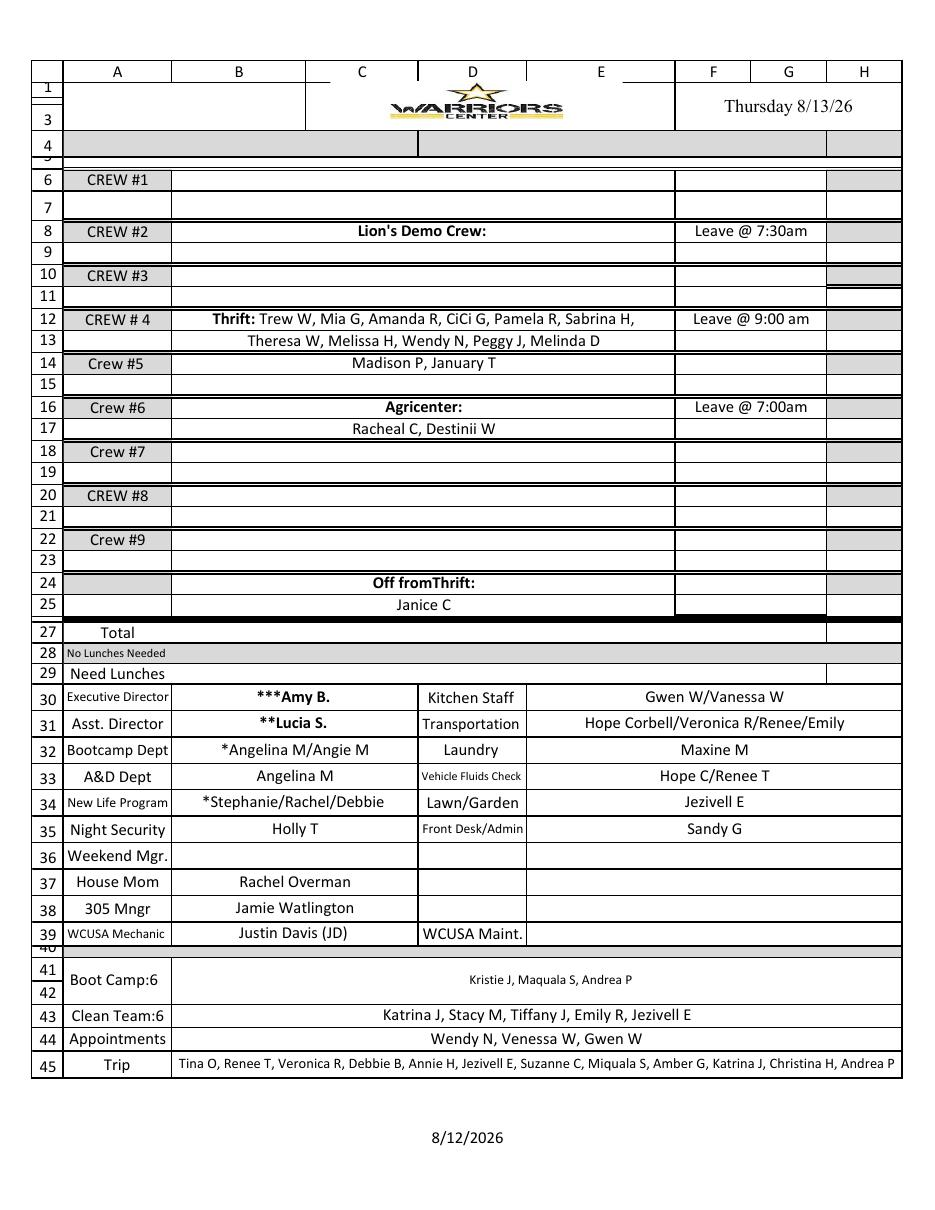
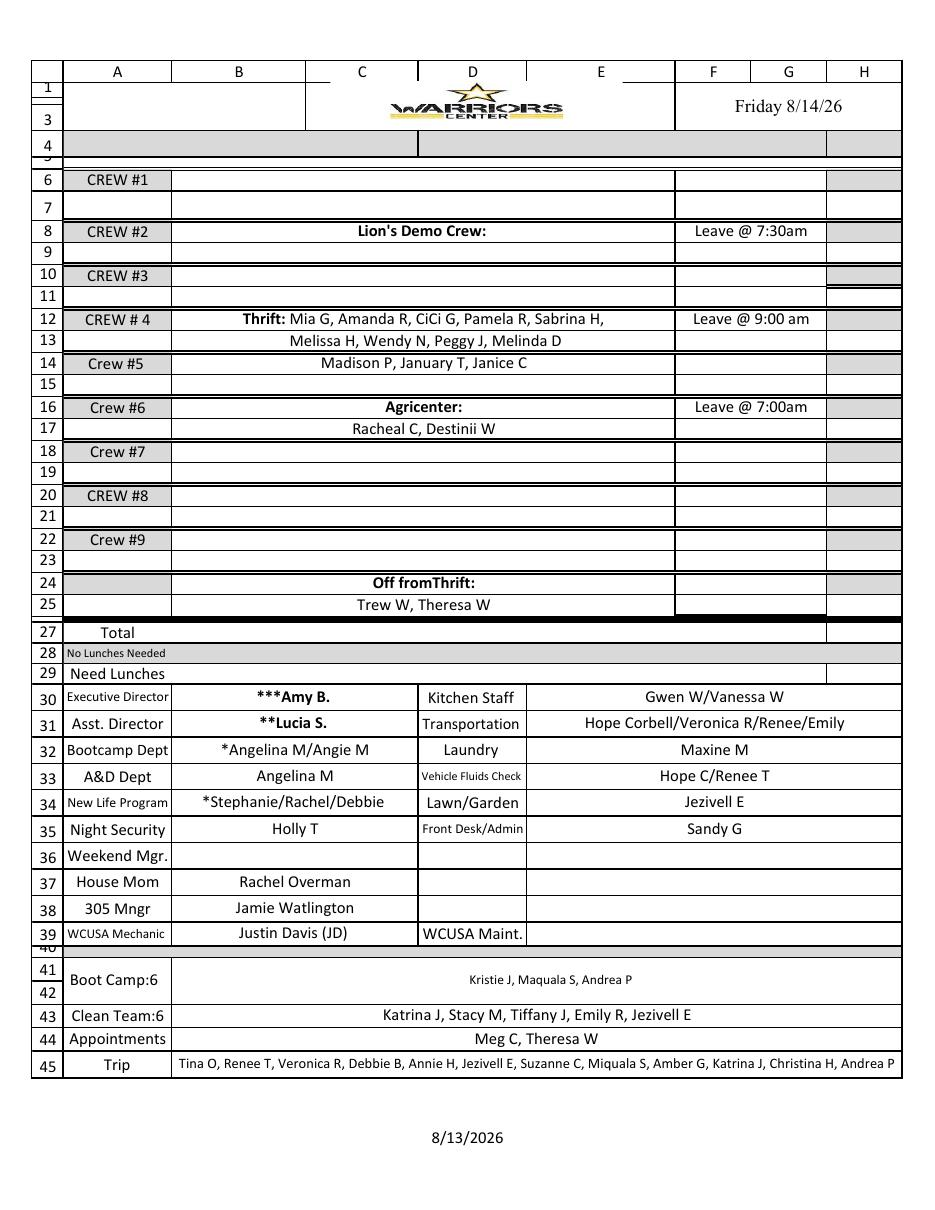
Add files via upload

diff --git a/bedcensus.html b/bedcensus.html
@@ -50,19 +50,19 @@
 <a class="back-link" href="index.html">&larr; Back to Dashboard</a>
 <h1>Warriors Center &mdash; Bed Census, All Centers</h1>
 <div class="sub">Room-by-room census as of the most recent fetch for each center.</div>
-<div class="generated">Page generated August 13, 2026</div>
+<div class="generated">Page generated August 14, 2026</div>
 <div class="nav"><a href="#Memphis">Memphis</a><a href="#Bolivar">Bolivar</a><a href="#OliveBranch">Olive Branch</a><a href="#Hardeman">Hardeman</a><a href="#NewAlbany">New Albany</a></div>
 
 <div class="center-section" id="Memphis">
   <div class="center-header">
     <h2>Memphis</h2>
-    <div class="center-meta">Week of 08/10/26 &middot; 92 people listed</div>
+    <div class="center-meta">Week of 08/10/26 &middot; 91 people listed</div>
   </div>
   <div class="card-wrap">
     <table>
       <thead><tr><th>Room</th><th>Bed</th><th>Name</th><th>Rank</th><th>Sp. Lvl</th></tr></thead>
       <tbody>
-        <tr><td>1</td><td>NA</td><td>Bryant Cummings</td><td>Executive Staff</td><td>NA</td></tr><tr><td>2</td><td>1</td><td>Jonathan Hankins</td><td>Recruit</td><td>L-0</td></tr><tr><td>2</td><td>2</td><td>Alejandro Jimenez</td><td>E-8</td><td>L-3</td></tr><tr><td>2</td><td>3</td><td>Lee Pulliam</td><td>E-8</td><td>L-3</td></tr><tr><td>3</td><td>1</td><td>Benjamin Coffman</td><td>E-1</td><td>L-0</td></tr><tr><td>3</td><td>2</td><td>Michael Westman</td><td>E-6</td><td>L-2</td></tr><tr><td>3</td><td>3</td><td>Thomas Kolwyck</td><td>E-6</td><td>L-2</td></tr><tr><td>4</td><td>1</td><td>Boris Fitzgerald</td><td>Help Staff</td><td>NA</td></tr><tr><td>4</td><td>2</td><td>Michael Healey</td><td>Help Staff</td><td>NA</td></tr><tr><td>4</td><td>3</td><td>James Forrest</td><td>Graduate</td><td>NA</td></tr><tr><td>5</td><td>1</td><td>John Horton</td><td>E-5</td><td>L-1</td></tr><tr><td>5</td><td>2</td><td>Tim Sepper</td><td>E-9</td><td>L-3</td></tr><tr><td>5</td><td>3</td><td>Joseph Nagi</td><td>Help Staff</td><td>NA</td></tr><tr><td>6</td><td>1</td><td>Jimmy Blakely</td><td>Help Staff</td><td>NA</td></tr><tr><td>9</td><td>1</td><td>Robert Fargason</td><td>Graduate</td><td>NA</td></tr><tr><td>9</td><td>2</td><td>Jason Doss</td><td>E-8</td><td>L-3</td></tr><tr><td>9</td><td>3</td><td>Benjamin Chavez</td><td>E-6</td><td>L-2</td></tr><tr><td>10</td><td>1</td><td>Henry Nixon</td><td>E-5</td><td>L-1</td></tr><tr><td>10</td><td>2</td><td>Edward Bosi</td><td>E-7</td><td>L-2</td></tr><tr><td>10</td><td>3</td><td>Terry Dotson</td><td>E-7</td><td>L-2</td></tr><tr><td>11</td><td>1</td><td>Edrick Wedlow</td><td>E-6</td><td>L-2</td></tr><tr><td>11</td><td>2</td><td>Lloyd Hamm</td><td>E-4</td><td>L-1</td></tr><tr><td>11</td><td>3</td><td>Ashton Jones</td><td>E-6</td><td>L-2</td></tr><tr><td>13</td><td>1</td><td>Zachary Austin</td><td>Bootcamp</td><td>L-0</td></tr><tr><td>13</td><td>2</td><td>Wesley Guess</td><td>Bootcamp</td><td>L-0</td></tr><tr><td>13</td><td>3</td><td>Frank Watson</td><td>Bootcamp</td><td>L-0</td></tr><tr><td>13</td><td>4</td><td>Darrell Falconer</td><td>Bootcamp</td><td>L-0</td></tr><tr><td>13</td><td>5</td><td>Cody Mclure</td><td>Bootcamp</td><td>L-0</td></tr><tr class="open-row"><td>13</td><td>6</td><td>Open</td><td>Open</td><td>Open</td></tr><tr class="open-row"><td>13</td><td>Cot1</td><td>Open</td><td>Open</td><td>Open</td></tr><tr class="open-row"><td>13</td><td>Cot2</td><td>Open</td><td>Open</td><td>Open</td></tr><tr class="open-row"><td>13</td><td>Cot3</td><td>Open</td><td>Open</td><td>Open</td></tr><tr><td>14</td><td>1</td><td>Kerry Brown</td><td>Bootcamp</td><td>L-0</td></tr><tr><td>14</td><td>2</td><td>Jamie Murray</td><td>Recharge</td><td>NA</td></tr><tr><td>14</td><td>3</td><td>Kelvin Seymour</td><td>Bootcamp</td><td>L-0</td></tr><tr><td>14</td><td>4</td><td>Ben Boyd</td><td>Bootcamp</td><td>L-0</td></tr><tr><td>15</td><td>1</td><td>Quincey Jones</td><td>Recruit</td><td>L-0</td></tr><tr><td>15</td><td>2</td><td>Michael Smith</td><td>Bootcamp</td><td>L-0</td></tr><tr><td>15</td><td>3</td><td>Chris Jones</td><td>E-1</td><td>L-0</td></tr><tr><td>15</td><td>4</td><td>Christopher Worsham</td><td>E-2</td><td>L-0</td></tr><tr><td>16</td><td>1</td><td>Johnny Bennett</td><td>Bootcamp</td><td>L-0</td></tr><tr><td>16</td><td>2</td><td>Tyson Darby</td><td>Recruit</td><td>L-0</td></tr><tr><td>16</td><td>3</td><td>Miguel Campos</td><td>Recruit</td><td>L-0</td></tr><tr><td>16</td><td>4</td><td>Hal Munson</td><td>Recharge</td><td>NA</td></tr><tr><td>17</td><td>1</td><td>Trae Morrow</td><td>E-3</td><td>L-1</td></tr><tr><td>17</td><td>2</td><td>Bradford Allen</td><td>E-7</td><td>L-2</td></tr><tr><td>17</td><td>3</td><td>Derron Pegues</td><td>E-2</td><td>L-0</td></tr><tr><td>17</td><td>4</td><td>William Brown</td><td>Recruit</td><td>L-0</td></tr><tr><td>18</td><td>1</td><td>Michael Chandler</td><td>Bootcamp</td><td>L-0</td></tr><tr><td>18</td><td>2</td><td>Tempton Land</td><td>Recruit</td><td>L-0</td></tr><tr><td>18</td><td>3</td><td>DeMarco Boyd</td><td>E-1</td><td>L-0</td></tr><tr><td>18</td><td>4</td><td>Chris Woods</td><td>E-1</td><td>L-0</td></tr><tr><td>19</td><td>1</td><td>Derrick Mason</td><td>Bootcamp</td><td>L-0</td></tr><tr><td>19</td><td>2</td><td>Rodney Horst</td><td>E-5</td><td>L-1</td></tr><tr><td>19</td><td>3</td><td>Michael Wells</td><td>E-3</td><td>L-1</td></tr><tr><td>19</td><td>4</td><td>Shelton Sanders</td><td>E-4</td><td>L-1</td></tr><tr><td>20</td><td>1</td><td>Andy Woods</td><td>Recruit</td><td>L-0</td></tr><tr><td>20</td><td>2</td><td>Patrick Maxie</td><td>Recruit</td><td>L-0</td></tr><tr><td>20</td><td>3</td><td>Johnathan Nobles</td><td>E-2</td><td>L-0</td></tr><tr><td>20</td><td>4</td><td>Cornelius Triplett</td><td>E-1</td><td>L-0</td></tr><tr><td>21</td><td>1</td><td>Michael Lyons</td><td>Bootcamp</td><td>L-0</td></tr><tr><td>21</td><td>2</td><td>Kenneth Foreman</td><td>E-9</td><td>L-3</td></tr><tr><td>21</td><td>3</td><td>Jason Hutto</td><td>Bootcamp</td><td>L-0</td></tr><tr><td>21</td><td>4</td><td>Melvin McKinnie</td><td>Graduate</td><td>NA</td></tr><tr><td>22</td><td>1</td><td>Edward Green</td><td>Bootcamp</td><td>L-0</td></tr><tr><td>22</td><td>2</td><td>Dedrick Woodard</td><td>E-2</td><td>L-0</td></tr><tr><td>22</td><td>3</td><td>Mark Carr</td><td>E-2</td><td>L-0</td></tr><tr><td>22</td><td>4</td><td>Arthur Spears</td><td>E-3</td><td>L-1</td></tr><tr><td>23</td><td>1</td><td>Matthew Stewart</td><td>Recharge</td><td>NA</td></tr><tr><td>23</td><td>2</td><td>Cliff Jowers</td><td>Recharge</td><td>NA</td></tr><tr><td>23</td><td>3</td><td>Michael Marla</td><td>Bootcamp</td><td>L-0</td></tr><tr><td>23</td><td>4</td><td>Andrew Hence</td><td>Recruit</td><td>L-0</td></tr><tr><td>24</td><td>NA</td><td>Bootcamp Office</td><td>NA</td><td>NA</td></tr><tr><td>25</td><td>NA</td><td>Program Office</td><td>NA</td><td>NA</td></tr><tr><td>26</td><td>NA</td><td>Med Room</td><td>NA</td><td>NA</td></tr><tr><td>28</td><td>1</td><td>James Shelton</td><td>Graduate</td><td>NA</td></tr><tr><td>29</td><td>NA</td><td>A&amp;D Office</td><td>NA</td><td>NA</td></tr><tr><td>Grad1</td><td>1</td><td>Darrin Tolliver</td><td>Graduate</td><td>NA</td></tr><tr><td>Grad1</td><td>2</td><td>Robert Tolliver</td><td>Graduate</td><td>NA</td></tr><tr><td>Grad1</td><td>3</td><td>Billy Springs</td><td>Help Staff</td><td>NA</td></tr><tr><td>Grad1</td><td>4</td><td>Charles Whitaker</td><td>Help Staff</td><td>NA</td></tr><tr><td>Grad1</td><td>5</td><td>Robert Schibel</td><td>Graduate</td><td>NA</td></tr><tr><td>Grad1</td><td>6</td><td>Jeremy Myers</td><td>Graduate</td><td>NA</td></tr><tr><td>Grad1</td><td>7</td><td>Michael Taylor</td><td>Graduate</td><td>NA</td></tr><tr><td>Grad2</td><td>1</td><td>Exie Kelly</td><td>Executive Staff</td><td>NA</td></tr><tr><td>Grad2</td><td>2</td><td>Patrick Bowman</td><td>Help Staff</td><td>NA</td></tr><tr><td>Grad2</td><td>3</td><td>Frankie Dalriva</td><td>Graduate</td><td>NA</td></tr><tr><td>Grad2</td><td>4</td><td>Rodney Huffman</td><td>E-8</td><td>L-3</td></tr><tr><td>Grad2</td><td>5</td><td>Gregory Stiles</td><td>Graduate</td><td>NA</td></tr><tr><td>Grad2</td><td>6</td><td>Joseph Hugo</td><td>Help Staff</td><td>NA</td></tr><tr><td>Grad2</td><td>7</td><td>Emmanuel Lovett</td><td>Graduate</td><td>NA</td></tr><tr><td>Grad3</td><td>1</td><td>Fred Mindermann</td><td>Help Staff</td><td>NA</td></tr><tr><td>Grad3</td><td>2</td><td>James Sanders</td><td>Graduate</td><td>NA</td></tr><tr><td>Grad3</td><td>3</td><td>Donald Gonzalez</td><td>Graduate</td><td>NA</td></tr><tr><td>Grad3</td><td>4</td><td>Chris Purvis</td><td>Help Staff</td><td>NA</td></tr><tr><td>Grad3</td><td>5</td><td>Dwight Collins</td><td>Help Staff</td><td>NA</td></tr>
+        <tr><td>1</td><td>NA</td><td>Bryant Cummings</td><td>Executive Staff</td><td>NA</td></tr><tr><td>2</td><td>1</td><td>Jonathan Hankins</td><td>Recruit</td><td>L-0</td></tr><tr><td>2</td><td>2</td><td>Alejandro Jimenez</td><td>E-8</td><td>L-3</td></tr><tr><td>2</td><td>3</td><td>Lee Pulliam</td><td>E-8</td><td>L-3</td></tr><tr><td>3</td><td>1</td><td>Benjamin Coffman</td><td>E-1</td><td>L-0</td></tr><tr><td>3</td><td>2</td><td>Michael Westman</td><td>E-6</td><td>L-2</td></tr><tr><td>3</td><td>3</td><td>Thomas Kolwyck</td><td>E-6</td><td>L-2</td></tr><tr><td>4</td><td>1</td><td>Boris Fitzgerald</td><td>Help Staff</td><td>NA</td></tr><tr><td>4</td><td>2</td><td>Michael Healey</td><td>Help Staff</td><td>NA</td></tr><tr><td>4</td><td>3</td><td>James Forrest</td><td>Graduate</td><td>NA</td></tr><tr><td>5</td><td>1</td><td>John Horton</td><td>E-5</td><td>L-1</td></tr><tr><td>5</td><td>2</td><td>Tim Sepper</td><td>E-9</td><td>L-3</td></tr><tr><td>5</td><td>3</td><td>Joseph Nagi</td><td>Help Staff</td><td>NA</td></tr><tr><td>6</td><td>1</td><td>Jimmy Blakely</td><td>Help Staff</td><td>NA</td></tr><tr><td>9</td><td>1</td><td>Robert Fargason</td><td>Graduate</td><td>NA</td></tr><tr><td>9</td><td>2</td><td>Jason Doss</td><td>E-8</td><td>L-3</td></tr><tr><td>9</td><td>3</td><td>Benjamin Chavez</td><td>E-6</td><td>L-2</td></tr><tr><td>10</td><td>1</td><td>Henry Nixon</td><td>E-5</td><td>L-1</td></tr><tr><td>10</td><td>2</td><td>Edward Bosi</td><td>E-7</td><td>L-2</td></tr><tr><td>10</td><td>3</td><td>Terry Dotson</td><td>E-7</td><td>L-2</td></tr><tr><td>11</td><td>1</td><td>Edrick Wedlow</td><td>E-6</td><td>L-2</td></tr><tr><td>11</td><td>2</td><td>Lloyd Hamm</td><td>E-4</td><td>L-1</td></tr><tr><td>11</td><td>3</td><td>Ashton Jones</td><td>E-6</td><td>L-2</td></tr><tr><td>13</td><td>1</td><td>Zachary Austin</td><td>Bootcamp</td><td>L-0</td></tr><tr><td>13</td><td>2</td><td>Wesley Guess</td><td>Bootcamp</td><td>L-0</td></tr><tr><td>13</td><td>3</td><td>Frank Watson</td><td>Bootcamp</td><td>L-0</td></tr><tr><td>13</td><td>4</td><td>Darrell Falconer</td><td>Bootcamp</td><td>L-0</td></tr><tr><td>13</td><td>5</td><td>Cody Mclure</td><td>Bootcamp</td><td>L-0</td></tr><tr><td>13</td><td>6</td><td>David Webster</td><td>Bootcamp</td><td>L-0</td></tr><tr class="open-row"><td>13</td><td>Cot1</td><td>Open</td><td>Open</td><td>Open</td></tr><tr class="open-row"><td>13</td><td>Cot2</td><td>Open</td><td>Open</td><td>Open</td></tr><tr class="open-row"><td>13</td><td>Cot3</td><td>Open</td><td>Open</td><td>Open</td></tr><tr><td>14</td><td>1</td><td>Kerry Brown</td><td>Bootcamp</td><td>L-0</td></tr><tr><td>14</td><td>2</td><td>Jamie Murray</td><td>Recharge</td><td>NA</td></tr><tr><td>14</td><td>3</td><td>Kelvin Seymour</td><td>Bootcamp</td><td>L-0</td></tr><tr><td>14</td><td>4</td><td>Ben Boyd</td><td>Bootcamp</td><td>L-0</td></tr><tr><td>15</td><td>1</td><td>Quincey Jones</td><td>Recruit</td><td>L-0</td></tr><tr><td>15</td><td>2</td><td>Michael Smith</td><td>Bootcamp</td><td>L-0</td></tr><tr><td>15</td><td>3</td><td>Chris Jones</td><td>E-1</td><td>L-0</td></tr><tr><td>15</td><td>4</td><td>Christopher Worsham</td><td>E-2</td><td>L-0</td></tr><tr class="open-row"><td>16</td><td>1</td><td>Open</td><td>Open</td><td>Open</td></tr><tr><td>16</td><td>2</td><td>Tyson Darby</td><td>Recruit</td><td>L-0</td></tr><tr><td>16</td><td>3</td><td>Miguel Campos</td><td>Recruit</td><td>L-0</td></tr><tr><td>16</td><td>4</td><td>Hal Munson</td><td>Recharge</td><td>NA</td></tr><tr><td>17</td><td>1</td><td>Trae Morrow</td><td>E-3</td><td>L-1</td></tr><tr><td>17</td><td>2</td><td>Bradford Allen</td><td>E-7</td><td>L-2</td></tr><tr><td>17</td><td>3</td><td>Derron Pegues</td><td>E-2</td><td>L-0</td></tr><tr><td>17</td><td>4</td><td>William Brown</td><td>Recruit</td><td>L-0</td></tr><tr><td>18</td><td>1</td><td>Michael Chandler</td><td>Bootcamp</td><td>L-0</td></tr><tr><td>18</td><td>2</td><td>Tempton Land</td><td>Recruit</td><td>L-0</td></tr><tr><td>18</td><td>3</td><td>DeMarco Boyd</td><td>E-1</td><td>L-0</td></tr><tr><td>18</td><td>4</td><td>Chris Woods</td><td>E-1</td><td>L-0</td></tr><tr><td>19</td><td>1</td><td>Derrick Mason</td><td>Bootcamp</td><td>L-0</td></tr><tr><td>19</td><td>2</td><td>Rodney Horst</td><td>E-5</td><td>L-1</td></tr><tr><td>19</td><td>3</td><td>Michael Wells</td><td>E-3</td><td>L-1</td></tr><tr><td>19</td><td>4</td><td>Shelton Sanders</td><td>E-4</td><td>L-1</td></tr><tr><td>20</td><td>1</td><td>Andy Woods</td><td>Recruit</td><td>L-0</td></tr><tr><td>20</td><td>2</td><td>Patrick Maxie</td><td>Recruit</td><td>L-0</td></tr><tr><td>20</td><td>3</td><td>Johnathan Nobles</td><td>E-2</td><td>L-0</td></tr><tr><td>20</td><td>4</td><td>Cornelius Triplett</td><td>E-1</td><td>L-0</td></tr><tr><td>21</td><td>1</td><td>Michael Lyons</td><td>Bootcamp</td><td>L-0</td></tr><tr><td>21</td><td>2</td><td>Kenneth Foreman</td><td>E-9</td><td>L-3</td></tr><tr><td>21</td><td>3</td><td>Jason Hutto</td><td>Bootcamp</td><td>L-0</td></tr><tr><td>21</td><td>4</td><td>Melvin McKinnie</td><td>Graduate</td><td>NA</td></tr><tr><td>22</td><td>1</td><td>Edward Green</td><td>Bootcamp</td><td>L-0</td></tr><tr><td>22</td><td>2</td><td>Dedrick Woodard</td><td>E-2</td><td>L-0</td></tr><tr class="open-row"><td>22</td><td>3</td><td>Open</td><td>Open</td><td>Open</td></tr><tr><td>22</td><td>4</td><td>Arthur Spears</td><td>E-3</td><td>L-1</td></tr><tr><td>23</td><td>1</td><td>Matthew Stewart</td><td>Recharge</td><td>NA</td></tr><tr><td>23</td><td>2</td><td>Cliff Jowers</td><td>Recharge</td><td>NA</td></tr><tr><td>23</td><td>3</td><td>Michael Marla</td><td>Bootcamp</td><td>L-0</td></tr><tr><td>23</td><td>4</td><td>Andrew Hence</td><td>Recruit</td><td>L-0</td></tr><tr><td>24</td><td>NA</td><td>Bootcamp Office</td><td>NA</td><td>NA</td></tr><tr><td>25</td><td>NA</td><td>Program Office</td><td>NA</td><td>NA</td></tr><tr><td>26</td><td>NA</td><td>Med Room</td><td>NA</td><td>NA</td></tr><tr><td>28</td><td>1</td><td>James Shelton</td><td>Graduate</td><td>NA</td></tr><tr><td>29</td><td>NA</td><td>A&amp;D Office</td><td>NA</td><td>NA</td></tr><tr><td>Grad1</td><td>1</td><td>Darrin Tolliver</td><td>Graduate</td><td>NA</td></tr><tr><td>Grad1</td><td>2</td><td>Robert Tolliver</td><td>Graduate</td><td>NA</td></tr><tr><td>Grad1</td><td>3</td><td>Billy Springs</td><td>Help Staff</td><td>NA</td></tr><tr><td>Grad1</td><td>4</td><td>Charles Whitaker</td><td>Help Staff</td><td>NA</td></tr><tr><td>Grad1</td><td>5</td><td>Robert Schibel</td><td>Graduate</td><td>NA</td></tr><tr><td>Grad1</td><td>6</td><td>Jeremy Myers</td><td>Graduate</td><td>NA</td></tr><tr><td>Grad1</td><td>7</td><td>Michael Taylor</td><td>Graduate</td><td>NA</td></tr><tr><td>Grad2</td><td>1</td><td>Exie Kelly</td><td>Executive Staff</td><td>NA</td></tr><tr><td>Grad2</td><td>2</td><td>Patrick Bowman</td><td>Help Staff</td><td>NA</td></tr><tr><td>Grad2</td><td>3</td><td>Frankie Dalriva</td><td>Graduate</td><td>NA</td></tr><tr><td>Grad2</td><td>4</td><td>Rodney Huffman</td><td>E-8</td><td>L-3</td></tr><tr><td>Grad2</td><td>5</td><td>Gregory Stiles</td><td>Graduate</td><td>NA</td></tr><tr><td>Grad2</td><td>6</td><td>Joseph Hugo</td><td>Help Staff</td><td>NA</td></tr><tr><td>Grad2</td><td>7</td><td>Emmanuel Lovett</td><td>Graduate</td><td>NA</td></tr><tr><td>Grad3</td><td>1</td><td>Fred Mindermann</td><td>Help Staff</td><td>NA</td></tr><tr><td>Grad3</td><td>2</td><td>James Sanders</td><td>Graduate</td><td>NA</td></tr><tr><td>Grad3</td><td>3</td><td>Donald Gonzalez</td><td>Graduate</td><td>NA</td></tr><tr><td>Grad3</td><td>4</td><td>Chris Purvis</td><td>Help Staff</td><td>NA</td></tr><tr><td>Grad3</td><td>5</td><td>Dwight Collins</td><td>Help Staff</td><td>NA</td></tr>
       </tbody>
     </table>
   </div>

diff --git a/index.html b/index.html
@@ -7706,6 +7706,274 @@
         "cost_ytd": 1921642.05,
         "cost_as_of_date": "2026-07-31"
       }
+    },
+    {
+      "date": "2026-08-14",
+      "generated_at": "2026-08-14T07:17:35.122420",
+      "centers": {
+        "Memphis": {
+          "as_of_date": "2026-08-13",
+          "beds_occupied": 67,
+          "total_beds": 69,
+          "occupancy_pct": 97.1,
+          "staff_grad_beds": 8,
+          "program_residents": 59,
+          "rank_counts": {
+            "Bootcamp": 16,
+            "Recruit": 9,
+            "Recharge": 4,
+            "E-1": 5,
+            "E-2": 4,
+            "E-3": 3,
+            "E-4": 2,
+            "E-5": 3,
+            "E-6": 5,
+            "E-7": 3,
+            "E-8": 4,
+            "E-9": 2,
+            "Graduate": 14,
+            "Help Staff": 11,
+            "Executive Staff": 2
+          },
+          "occ_methodology": "bed_census",
+          "ytd_arrivals": 126,
+          "ytd_departures": 114,
+          "ytd_net": 12,
+          "t30_arrivals": 0,
+          "t30_departures": 0,
+          "t30_net": 0,
+          "avg_los_days_since_1_1_25": 61.9,
+          "bootcamp_cohort_n": 107,
+          "bootcamp_completed_n": 49,
+          "bootcamp_completion_pct": 45.8,
+          "recharge_current_count": 8,
+          "core_program_current": 65,
+          "recharge_pct_current": 12.3,
+          "graduates_current_year": 2,
+          "graduates_since_1_1_25": 13,
+          "cost_per_bed_day": 35.39,
+          "cost_ytd": 660145.48,
+          "cost_as_of_date": "2026-07-31"
+        },
+        "Bolivar": {
+          "as_of_date": "2026-08-12",
+          "beds_occupied": 57,
+          "total_beds": 67,
+          "occupancy_pct": 85.1,
+          "staff_grad_beds": 25,
+          "program_residents": 32,
+          "rank_counts": {
+            "Bootcamp": 9,
+            "Recruit": 3,
+            "Recharge": 2,
+            "E-1": 6,
+            "E-2": 4,
+            "E-3": 2,
+            "E-4": 3,
+            "E-5": 0,
+            "E-6": 2,
+            "E-7": 1,
+            "E-8": 1,
+            "E-9": 0,
+            "Graduate": 19,
+            "Help Staff": 6,
+            "Executive Staff": 3
+          },
+          "occ_methodology": "bed_census",
+          "ytd_arrivals": 83,
+          "ytd_departures": 83,
+          "ytd_net": 0,
+          "t30_arrivals": 0,
+          "t30_departures": 0,
+          "t30_net": 0,
+          "avg_los_days_since_1_1_25": 61.7,
+          "bootcamp_cohort_n": 76,
+          "bootcamp_completed_n": 27,
+          "bootcamp_completion_pct": 35.5,
+          "recharge_current_count": 2,
+          "core_program_current": 37,
+          "recharge_pct_current": 5.4,
+          "graduates_current_year": 6,
+          "graduates_since_1_1_25": 15,
+          "cost_per_bed_day": 26.82,
+          "cost_ytd": 420773.68,
+          "cost_as_of_date": "2026-07-31"
+        },
+        "Olive Branch": {
+          "as_of_date": "2026-08-13",
+          "beds_occupied": 24,
+          "total_beds": 26,
+          "occupancy_pct": 92.3,
+          "staff_grad_beds": 4,
+          "program_residents": 20,
+          "rank_counts": {
+            "Bootcamp": 2,
+            "Recruit": 4,
+            "Recharge": 3,
+            "E-1": 5,
+            "E-2": 2,
+            "E-3": 0,
+            "E-4": 1,
+            "E-5": 2,
+            "E-6": 5,
+            "E-7": 0,
+            "E-8": 2,
+            "E-9": 0,
+            "Graduate": 0,
+            "Help Staff": 18,
+            "Executive Staff": 2
+          },
+          "occ_methodology": "bed_census",
+          "ytd_arrivals": 38,
+          "ytd_departures": 33,
+          "ytd_net": 5,
+          "t30_arrivals": 0,
+          "t30_departures": 0,
+          "t30_net": 0,
+          "avg_los_days_since_1_1_25": 91.6,
+          "bootcamp_cohort_n": 30,
+          "bootcamp_completed_n": 13,
+          "bootcamp_completion_pct": 43.3,
+          "recharge_current_count": 2,
+          "core_program_current": 27,
+          "recharge_pct_current": 7.4,
+          "graduates_current_year": 6,
+          "graduates_since_1_1_25": 26,
+          "cost_per_bed_day": 43.19,
+          "cost_ytd": 448607.35,
+          "cost_as_of_date": "2026-07-31"
+        },
+        "Hardeman": {
+          "as_of_date": "2026-08-13",
+          "beds_occupied": 16,
+          "total_beds": 17,
+          "occupancy_pct": 94.1,
+          "staff_grad_beds": 7,
+          "program_residents": 9,
+          "rank_counts": {
+            "Bootcamp": 2,
+            "Recruit": 0,
+            "Recharge": 2,
+            "E-1": 0,
+            "E-2": 2,
+            "E-3": 0,
+            "E-4": 0,
+            "E-5": 0,
+            "E-6": 0,
+            "E-7": 1,
+            "E-8": 2,
+            "E-9": 0,
+            "Graduate": 0,
+            "Help Staff": 5,
+            "Executive Staff": 2
+          },
+          "occ_methodology": "bed_census",
+          "ytd_arrivals": 15,
+          "ytd_departures": 12,
+          "ytd_net": 3,
+          "t30_arrivals": 0,
+          "t30_departures": 0,
+          "t30_net": 0,
+          "avg_los_days_since_1_1_25": 109.7,
+          "bootcamp_cohort_n": 14,
+          "bootcamp_completed_n": 7,
+          "bootcamp_completion_pct": 50.0,
+          "recharge_current_count": 3,
+          "core_program_current": 11,
+          "recharge_pct_current": 27.3,
+          "graduates_current_year": 2,
+          "graduates_since_1_1_25": 6,
+          "cost_per_bed_day": 58.91,
+          "cost_ytd": 212301.6,
+          "cost_as_of_date": "2026-07-31"
+        },
+        "New Albany": {
+          "as_of_date": "2026-08-14",
+          "beds_occupied": 14,
+          "total_beds": 37,
+          "occupancy_pct": 37.8,
+          "staff_grad_beds": 7,
+          "program_residents": 7,
+          "rank_counts": {
+            "Bootcamp": 1,
+            "Recruit": 2,
+            "Recharge": 1,
+            "E-1": 0,
+            "E-2": 0,
+            "E-3": 0,
+            "E-4": 0,
+            "E-5": 1,
+            "E-6": 1,
+            "E-7": 1,
+            "E-8": 0,
+            "E-9": 0,
+            "Graduate": 0,
+            "Help Staff": 2,
+            "Executive Staff": 5
+          },
+          "occ_methodology": "bed_census",
+          "ytd_arrivals": 15,
+          "ytd_departures": 22,
+          "ytd_net": -7,
+          "t30_arrivals": 0,
+          "t30_departures": 0,
+          "t30_net": 0,
+          "avg_los_days_since_1_1_25": 55.1,
+          "bootcamp_cohort_n": 10,
+          "bootcamp_completed_n": 5,
+          "bootcamp_completion_pct": 50.0,
+          "recharge_current_count": 0,
+          "core_program_current": 6,
+          "recharge_pct_current": 0.0,
+          "graduates_current_year": 1,
+          "graduates_since_1_1_25": 4,
+          "cost_per_bed_day": 46.2,
+          "cost_ytd": 179813.94,
+          "cost_as_of_date": "2026-07-31"
+        }
+      },
+      "system": {
+        "occupancy_pct": 82.4,
+        "beds_occupied": 178,
+        "total_beds": 216,
+        "staff_grad_beds": 51,
+        "program_residents": 127,
+        "rank_counts": {
+          "Bootcamp": 30,
+          "Recruit": 18,
+          "Recharge": 12,
+          "E-1": 16,
+          "E-2": 12,
+          "E-3": 5,
+          "E-4": 6,
+          "E-5": 6,
+          "E-6": 13,
+          "E-7": 6,
+          "E-8": 9,
+          "E-9": 2,
+          "Graduate": 33,
+          "Help Staff": 42,
+          "Executive Staff": 14
+        },
+        "ytd_arrivals": 277,
+        "ytd_departures": 264,
+        "ytd_net": 13,
+        "t30_arrivals": 0,
+        "t30_departures": 0,
+        "t30_net": 0,
+        "avg_los_days_since_1_1_25": 76.0,
+        "bootcamp_cohort_n": 237,
+        "bootcamp_completed_n": 101,
+        "bootcamp_completion_pct": 42.6,
+        "recharge_current_count": 15,
+        "core_program_current": 146,
+        "recharge_pct_current": 10.3,
+        "graduates_current_year": 17,
+        "graduates_since_1_1_25": 64,
+        "cost_per_bed_day": 36.79,
+        "cost_ytd": 1921642.05,
+        "cost_as_of_date": "2026-07-31"
+      }
     }
   ]
 }

diff --git a/schedules.html b/schedules.html
@@ -51,7 +51,7 @@
 <a class="back-link" href="index.html">&larr; Back to Dashboard</a>
 <h1>Warriors Center &mdash; Daily Schedules</h1>
 <div class="sub">Each center's most recently posted crew/duty schedule. Click an image to open it full-size.</div>
-<div class="generated">Page generated August 13, 2026</div>
+<div class="generated">Page generated August 14, 2026</div>
 <div class="nav"><a href="#Memphis">Memphis</a><a href="#Bolivar">Bolivar</a><a href="#OliveBranch">Olive Branch</a><a href="#Hardeman">Hardeman</a></div>
 <div class="grid">
 
@@ -60,7 +60,7 @@
     <h2>Memphis</h2>
     <span class="badge">2026-08-14</span>
   </div>
-  <div class="card-meta">Friday, August 14, 2026 &middot; pre-built for an upcoming day (normal, e.g. weekend prep)</div>
+  <div class="card-meta">Friday, August 14, 2026 &middot; no newer file than what dashboard already has</div>
   <a href="schedule_Memphis.jpg" target="_blank" rel="noopener">
     <img class="sched-img" src="schedule_Memphis.jpg" alt="Memphis schedule, Friday, August 14, 2026">
   </a>
@@ -71,7 +71,7 @@
     <h2>Bolivar</h2>
     <span class="badge">2026-08-14</span>
   </div>
-  <div class="card-meta">Friday, August 14, 2026 &middot; pre-built for an upcoming day (normal, e.g. weekend prep)</div>
+  <div class="card-meta">Friday, August 14, 2026 &middot; no newer file than what dashboard already has</div>
   <a href="schedule_Bolivar.jpg" target="_blank" rel="noopener">
     <img class="sched-img" src="schedule_Bolivar.jpg" alt="Bolivar schedule, Friday, August 14, 2026">
   </a>
@@ -80,22 +80,22 @@
 <div class="center-card" id="OliveBranch">
   <div class="card-header">
     <h2>Olive Branch</h2>
-    <span class="badge">2026-08-13</span>
+    <span class="badge">2026-08-14</span>
   </div>
-  <div class="card-meta">Thursday, August 13, 2026</div>
+  <div class="card-meta">Friday, August 14, 2026</div>
   <a href="schedule_OliveBranch.jpg" target="_blank" rel="noopener">
-    <img class="sched-img" src="schedule_OliveBranch.jpg" alt="Olive Branch schedule, Thursday, August 13, 2026">
+    <img class="sched-img" src="schedule_OliveBranch.jpg" alt="Olive Branch schedule, Friday, August 14, 2026">
   </a>
 </div>
 
 <div class="center-card" id="Hardeman">
   <div class="card-header">
     <h2>Hardeman</h2>
-    <span class="badge">2026-08-13</span>
+    <span class="badge">2026-08-14</span>
   </div>
-  <div class="card-meta">Thursday, August 13, 2026</div>
+  <div class="card-meta">Friday, August 14, 2026</div>
   <a href="schedule_Hardeman.jpg" target="_blank" rel="noopener">
-    <img class="sched-img" src="schedule_Hardeman.jpg" alt="Hardeman schedule, Thursday, August 13, 2026">
+    <img class="sched-img" src="schedule_Hardeman.jpg" alt="Hardeman schedule, Friday, August 14, 2026">
   </a>
 </div>
 

diff --git a/arrivals_departures.html b/arrivals_departures.html
@@ -51,10 +51,10 @@
   
     <div class="center-block">
       <h3>Memphis</h3>
-      <div class="sub-label">Arrivals (6)</div>
-      <table><thead><tr><th>Name</th><th>Date</th></tr></thead><tbody><tr><td>Darrell Falconer</td><td>2026-08-10</td></tr><tr><td>Michael Lyons</td><td>2026-08-10</td></tr><tr><td>Michael Smith</td><td>2026-08-10</td></tr><tr><td>Cody Mclure</td><td>2026-08-13</td></tr><tr><td>Johnny Bennett</td><td>2026-08-13</td></tr><tr><td>Michael Chandler</td><td>2026-08-13</td></tr></tbody></table>
-      <div class="sub-label">Departures (4)</div>
-      <table><thead><tr><th>Name</th><th>Date</th></tr></thead><tbody><tr><td>Adam Keech</td><td>2026-08-11</td></tr><tr><td>Caleb Hill</td><td>2026-08-11</td></tr><tr><td>David Webster</td><td>2026-08-11</td></tr><tr><td>Randle Walker</td><td>2026-08-11</td></tr></tbody></table>
+      <div class="sub-label">Arrivals (7)</div>
+      <table><thead><tr><th>Name</th><th>Date</th></tr></thead><tbody><tr><td>Darrell Falconer</td><td>2026-08-10</td></tr><tr><td>Michael Lyons</td><td>2026-08-10</td></tr><tr><td>Michael Smith</td><td>2026-08-10</td></tr><tr><td>Cody Mclure</td><td>2026-08-13</td></tr><tr><td>Johnny Bennett</td><td>2026-08-13</td></tr><tr><td>Michael Chandler</td><td>2026-08-13</td></tr><tr><td>David Webster</td><td>2026-08-14</td></tr></tbody></table>
+      <div class="sub-label">Departures (6)</div>
+      <table><thead><tr><th>Name</th><th>Date</th></tr></thead><tbody><tr><td>Adam Keech</td><td>2026-08-11</td></tr><tr><td>Caleb Hill</td><td>2026-08-11</td></tr><tr><td>David Webster</td><td>2026-08-11</td></tr><tr><td>Randle Walker</td><td>2026-08-11</td></tr><tr><td>Johnny Bennett</td><td>2026-08-14</td></tr><tr><td>Mark Carr</td><td>2026-08-14</td></tr></tbody></table>
     </div>
     <div class="center-block">
       <h3>Bolivar</h3>

diff --git a/graduations.html b/graduations.html
@@ -54,7 +54,7 @@
 <a class="back-link" href="index.html">&larr; Back to Dashboard</a>
 <h1>Warriors Center &mdash; Graduation Report</h1>
 <div class="sub">Bootcamp completions, program graduations, completed recharge, staff reverting to graduate status, and returns to Bootcamp across all centers, by month.</div>
-<div class="generated">Page generated August 13, 2026</div>
+<div class="generated">Page generated August 14, 2026</div>
 <div class="nav"><a href="#2026-08">August 2026 (this month)</a><a href="#2026-07">July 2026</a></div>
 
 <div class="corrections-section">
